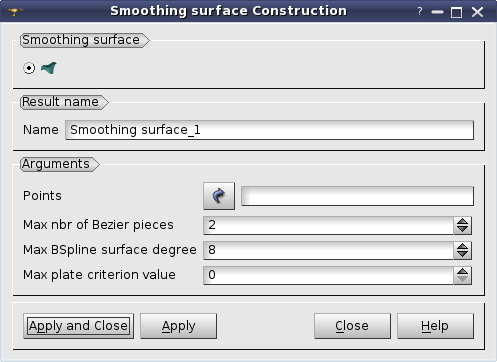
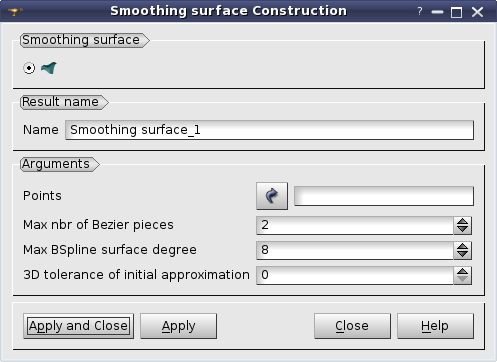
0022475: EDF 2811 GEOM: Features for "Smoothing Surface" function

Changed region(s): [[0.0302, 0.4862, 0.6036, 0.7901]]

diff --git a/src/AdvancedGUI/AdvancedGUI_msg_en.ts b/src/AdvancedGUI/AdvancedGUI_msg_en.ts
@@ -303,7 +303,7 @@
     </message>
     <message>
         <source>GEOM_SMOOTHINGSURFACE_ARG_D_MAX</source>
-        <translation>Max plate criterion value</translation>
+        <translation>3D tolerance of initial approximation</translation>
     </message>
     <message>
         <source>GEOM_SMOOTHINGSURFACE_NO_POINTS</source>

diff --git a/src/GEOM_SWIG/geomBuilder.py b/src/GEOM_SWIG/geomBuilder.py
@@ -12695,12 +12695,17 @@ class geomBuilder(object, GEOM._objref_GEOM_Gen):
         #  @param theNbMax maximum number of Bezier pieces in the resulting
         #         surface.
         #  @param theDegMax maximum degree of the resulting BSpline surface.
-        #  @param theDMax specifies maximum value of the
-        #         GeomPlate_PlateG0Criterion criterion.
+        #  @param theDMax 3D tolerance of initial approximation.
         #  @param theName Object name; when specified, this parameter is used
         #         for result publication in the study. Otherwise, if automatic
         #         publication is switched on, default value is used for result name.
         #  @return New GEOM_Object, containing the created shape.
+        #  @note 3D tolerance of initial approximation represents a tolerance of
+        #        initial plate surface approximation. If this parameter is equal
+        #        to 0 (default value) it is computed. In this case an error of
+        #        initial plate surface computation is used as the approximation
+        #        tolerance. This error represents a maximal distance between
+        #        computed plate surface and given points.
         #
         #  @ref tui_creation_smoothingsurface "Example"
         def MakeSmoothingSurface(self, thelPoints, theNbMax=2, theDegMax=8,
@@ -12714,14 +12719,21 @@ class geomBuilder(object, GEOM._objref_GEOM_Gen):
                 theNbMax maximum number of Bezier pieces in the resulting
                          surface.
                 theDegMax maximum degree of the resulting BSpline surface.
-                theDMax specifies maximum value of the
-                        GeomPlate_PlateG0Criterion criterion.
+                theDMax 3D tolerance of initial approximation.
                 theName Object name; when specified, this parameter is used
                         for result publication in the study. Otherwise, if automatic
                         publication is switched on, default value is used for result name.
 
             Returns:
                 New GEOM_Object, containing the created shape.
+
+            Note:
+                3D tolerance of initial approximation represents a tolerance of
+                initial plate surface approximation. If this parameter is equal
+                to 0 (default value) it is computed. In this case an error of
+                initial plate surface computation is used as the approximation
+                tolerance. This error represents a maximal distance between
+                computed plate surface and given points.
             """
             anObj = self.AdvOp.MakeSmoothingSurface(thelPoints, theNbMax,
                                                     theDegMax, theDMax)
